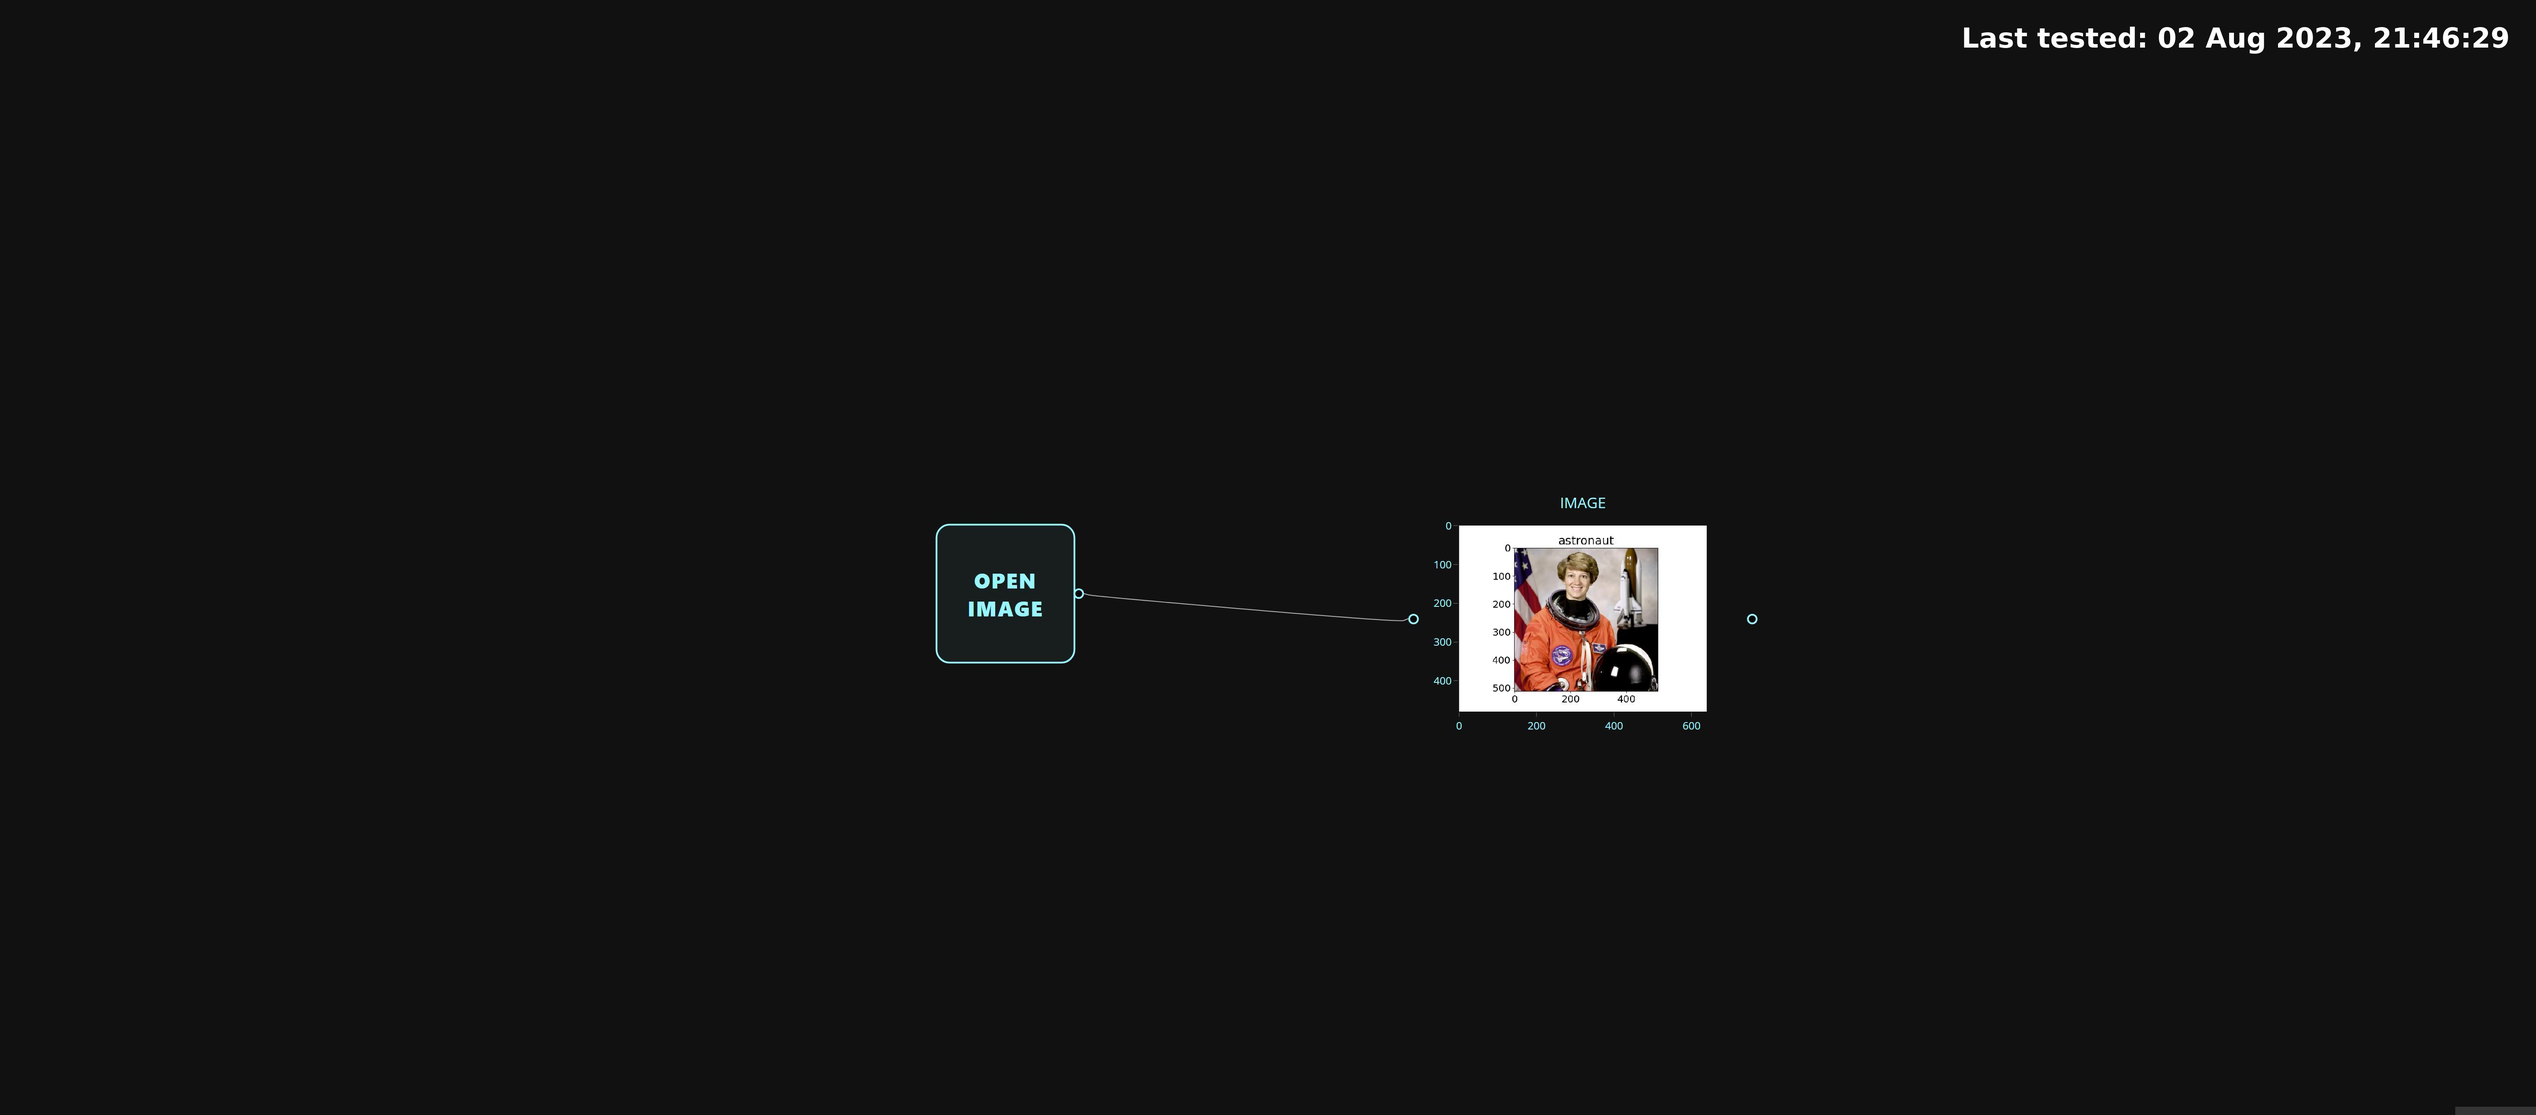
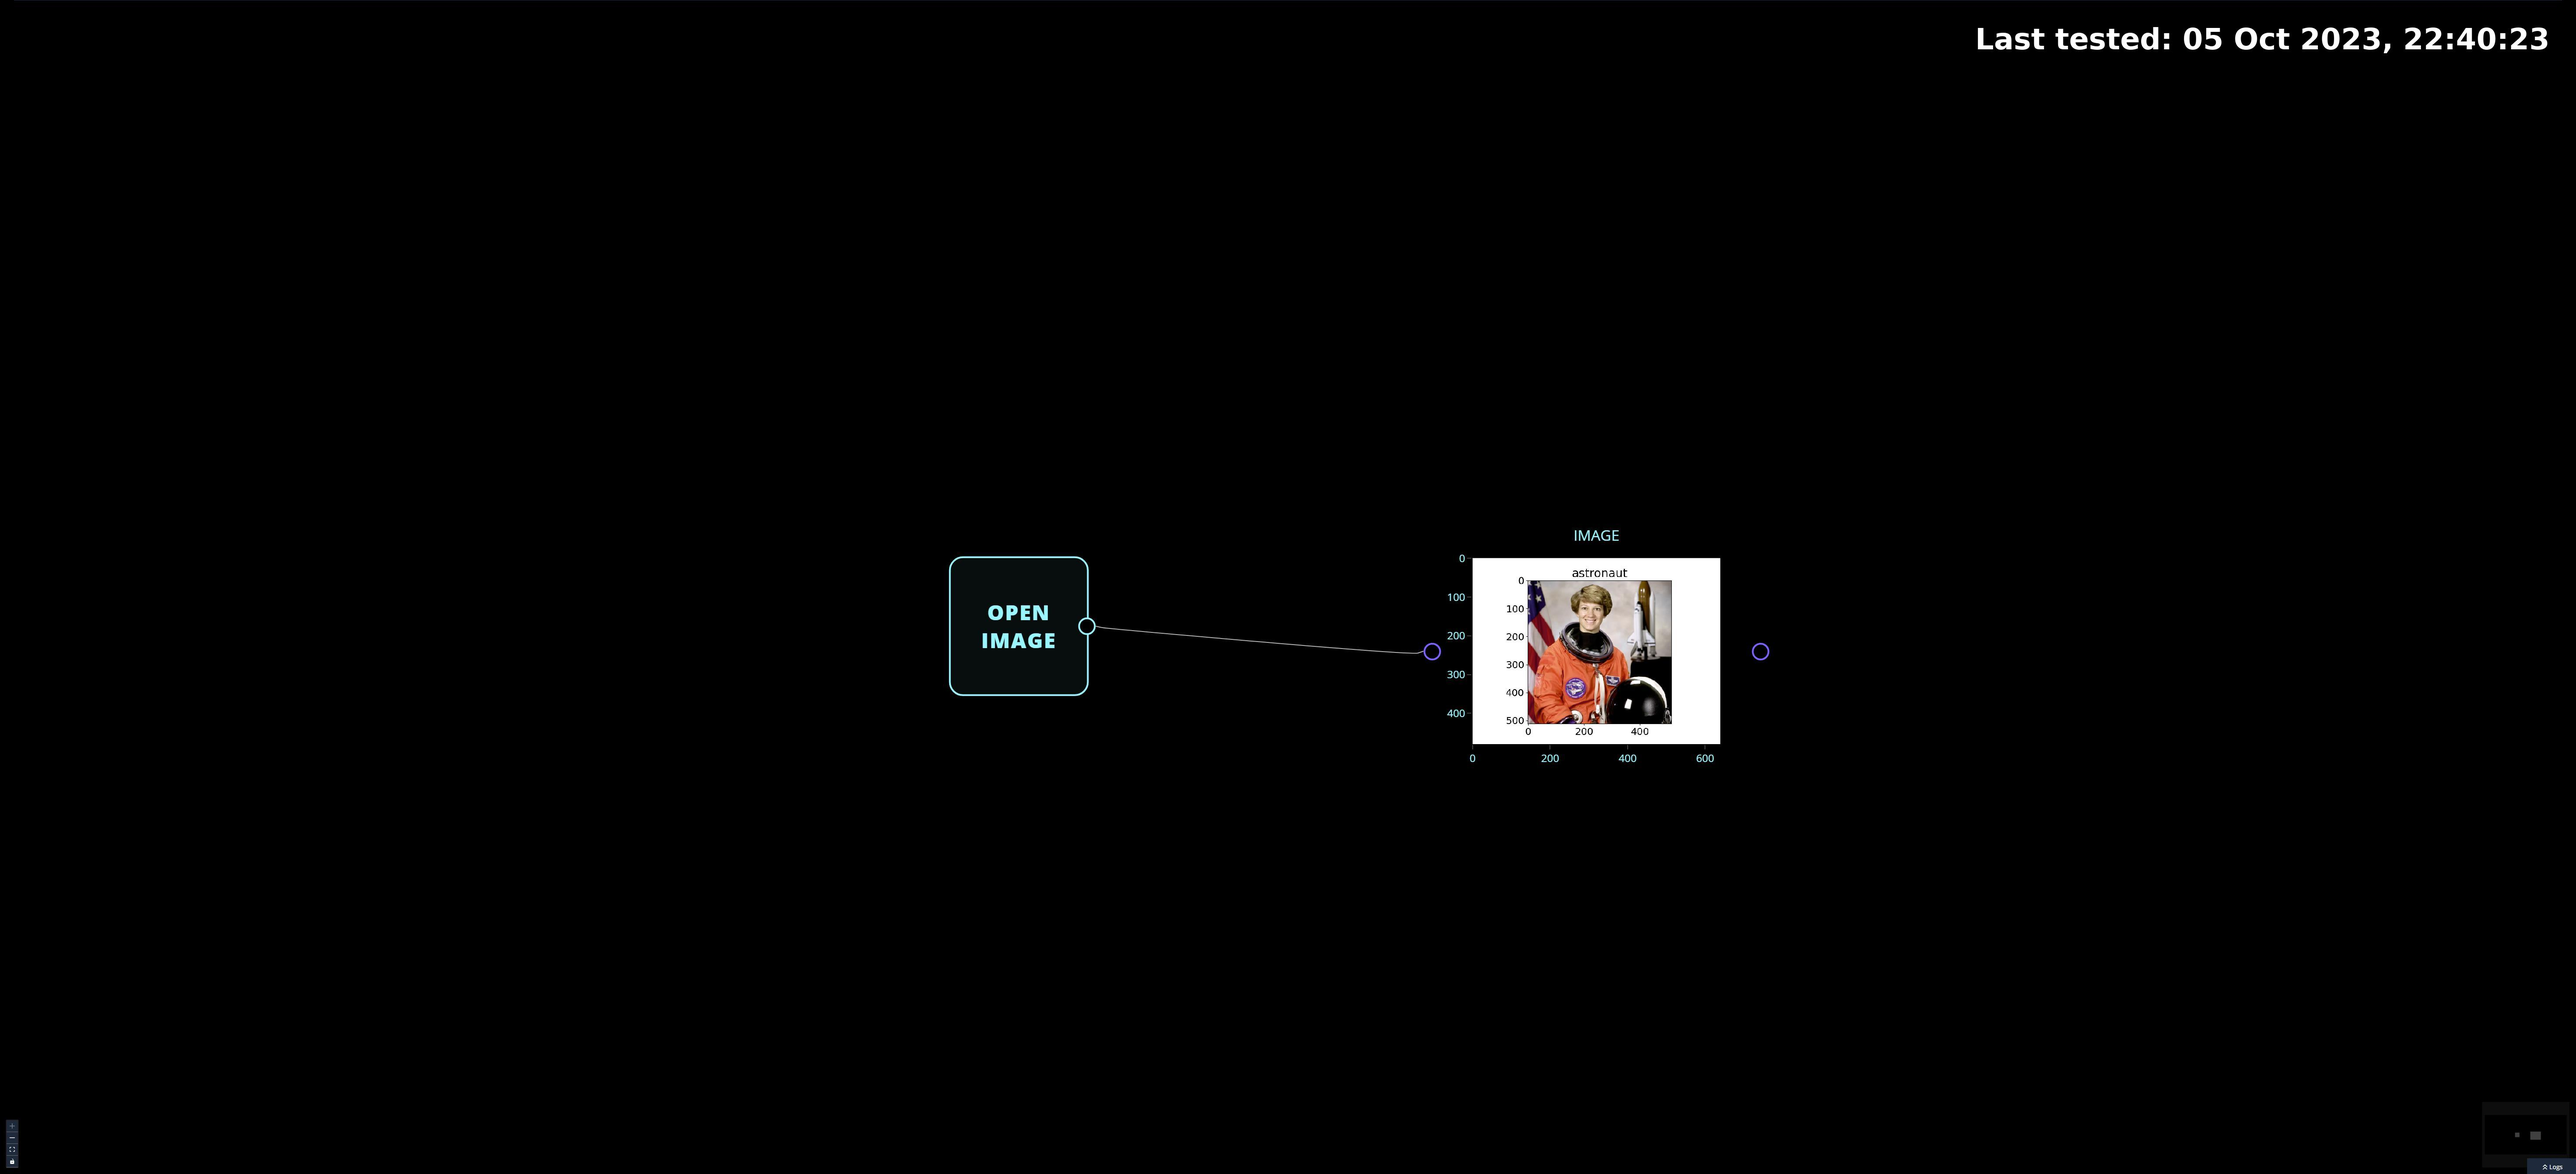
screenshot: EXTRACTORS

diff --git a/docs/nodes/EXTRACTORS/DEBUGGING/PRINT_DATACONTAINER/PRINT_DATACONTAINER.md b/docs/nodes/EXTRACTORS/DEBUGGING/PRINT_DATACONTAINER/PRINT_DATACONTAINER.md
@@ -25,13 +25,19 @@ import PythonSource from '!!raw-loader!./a1-[autogen]/python_code.txt';
 
 import Example1 from './examples/EX1/example.md';
 import App1 from '!!raw-loader!./examples/EX1/app.json';
+import appImg from './examples/EX1/app.jpeg'
+import appImgLight from './examples/EX1/app_light.jpeg'
+import outputImg from './examples/EX1/output.jpeg'
+import outputLight from './examples/EX1/output_light.jpeg'
 
 ### PRINT_DATACONTAINER example
 
-<AppDisplay
+<AppDisplay 
     nodeLabel='PRINT_DATACONTAINER'
-    appImg={''}
-    outputImg={''}
+    appImg={appImg}
+    appLight={appImgLight}
+    outputLight={outputLight}
+    outputImg={outputImg}
     >
     {App1}
 </AppDisplay>

diff --git a/docs/nodes/EXTRACTORS/DEBUGGING/DATACONTAINER_TYPE/DATACONTAINER_TYPE.md b/docs/nodes/EXTRACTORS/DEBUGGING/DATACONTAINER_TYPE/DATACONTAINER_TYPE.md
@@ -25,13 +25,19 @@ import PythonSource from '!!raw-loader!./a1-[autogen]/python_code.txt';
 
 import Example1 from './examples/EX1/example.md';
 import App1 from '!!raw-loader!./examples/EX1/app.json';
+import appImg from './examples/EX1/app.jpeg'
+import appImgLight from './examples/EX1/app_light.jpeg'
+import outputImg from './examples/EX1/output.jpeg'
+import outputLight from './examples/EX1/output_light.jpeg'
 
 ### DATACONTAINER_TYPE example
 
-<AppDisplay
+<AppDisplay 
     nodeLabel='DATACONTAINER_TYPE'
-    appImg={''}
-    outputImg={''}
+    appImg={appImg}
+    appLight={appImgLight}
+    outputLight={outputLight}
+    outputImg={outputImg}
     >
     {App1}
 </AppDisplay>

diff --git a/docs/nodes/EXTRACTORS/DEBUGGING/DC_CONTENT_TYPE/DC_CONTENT_TYPE.md b/docs/nodes/EXTRACTORS/DEBUGGING/DC_CONTENT_TYPE/DC_CONTENT_TYPE.md
@@ -25,13 +25,19 @@ import PythonSource from '!!raw-loader!./a1-[autogen]/python_code.txt';
 
 import Example1 from './examples/EX1/example.md';
 import App1 from '!!raw-loader!./examples/EX1/app.json';
+import appImg from './examples/EX1/app.jpeg'
+import appImgLight from './examples/EX1/app_light.jpeg'
+import outputImg from './examples/EX1/output.jpeg'
+import outputLight from './examples/EX1/output_light.jpeg'
 
 ### DC_CONTENT_TYPE example
 
-<AppDisplay
+<AppDisplay 
     nodeLabel='DC_CONTENT_TYPE'
-    appImg={''}
-    outputImg={''}
+    appImg={appImg}
+    appLight={appImgLight}
+    outputLight={outputLight}
+    outputImg={outputImg}
     >
     {App1}
 </AppDisplay>

diff --git a/docs/nodes/EXTRACTORS/DATAFRAME/EXTRACT_COLUMNS/EXTRACT_COLUMNS.md b/docs/nodes/EXTRACTORS/DATAFRAME/EXTRACT_COLUMNS/EXTRACT_COLUMNS.md
@@ -30,13 +30,17 @@ import PythonSource from '!!raw-loader!./a1-[autogen]/python_code.txt';
 import Example1 from './examples/EX1/example.md';
 import App1 from '!!raw-loader!./examples/EX1/app.json';
 import appImg from './examples/EX1/app.jpeg'
+import appImgLight from './examples/EX1/app_light.jpeg'
 import outputImg from './examples/EX1/output.jpeg'
+import outputLight from './examples/EX1/output_light.jpeg'
 
 ### Extract specific columns from a dataframe
 
 <AppDisplay 
     nodeLabel='EXTRACT_COLUMNS'
     appImg={appImg}
+    appLight={appImgLight}
+    outputLight={outputLight}
     outputImg={outputImg}
     >
     {App1}

diff --git a/docs/nodes/EXTRACTORS/FILE/READ_CSV/READ_CSV.md b/docs/nodes/EXTRACTORS/FILE/READ_CSV/READ_CSV.md
@@ -30,13 +30,17 @@ import PythonSource from '!!raw-loader!./a1-[autogen]/python_code.txt';
 import Example1 from './examples/EX1/example.md';
 import App1 from '!!raw-loader!./examples/EX1/app.json';
 import appImg from './examples/EX1/app.jpeg'
+import appImgLight from './examples/EX1/app_light.jpeg'
 import outputImg from './examples/EX1/output.jpeg'
+import outputLight from './examples/EX1/output_light.jpeg'
 
 ### Load a `.csv` file from disk or a URL
 
 <AppDisplay 
     nodeLabel='READ_CSV'
     appImg={appImg}
+    appLight={appImgLight}
+    outputLight={outputLight}
     outputImg={outputImg}
     >
     {App1}

diff --git a/docs/nodes/EXTRACTORS/FILE/OPEN_PARQUET/OPEN_PARQUET.md b/docs/nodes/EXTRACTORS/FILE/OPEN_PARQUET/OPEN_PARQUET.md
@@ -30,13 +30,17 @@ import PythonSource from '!!raw-loader!./a1-[autogen]/python_code.txt';
 import Example1 from './examples/EX1/example.md';
 import App1 from '!!raw-loader!./examples/EX1/app.json';
 import appImg from './examples/EX1/app.jpeg'
+import appImgLight from './examples/EX1/app_light.jpeg'
 import outputImg from './examples/EX1/output.jpeg'
+import outputLight from './examples/EX1/output_light.jpeg'
 
 ### Load a `.parquet` file from disk
 
 <AppDisplay 
     nodeLabel='OPEN_PARQUET'
     appImg={appImg}
+    appLight={appImgLight}
+    outputLight={outputLight}
     outputImg={outputImg}
     >
     {App1}

diff --git a/docs/nodes/EXTRACTORS/FILE/OPEN_IMAGE/OPEN_IMAGE.md b/docs/nodes/EXTRACTORS/FILE/OPEN_IMAGE/OPEN_IMAGE.md
@@ -30,13 +30,17 @@ import PythonSource from '!!raw-loader!./a1-[autogen]/python_code.txt';
 import Example1 from './examples/EX1/example.md';
 import App1 from '!!raw-loader!./examples/EX1/app.json';
 import appImg from './examples/EX1/app.jpeg'
+import appImgLight from './examples/EX1/app_light.jpeg'
 import outputImg from './examples/EX1/output.jpeg'
+import outputLight from './examples/EX1/output_light.jpeg'
 
 ### Load an image file from disk
 
 <AppDisplay 
     nodeLabel='OPEN_IMAGE'
     appImg={appImg}
+    appLight={appImgLight}
+    outputLight={outputLight}
     outputImg={outputImg}
     >
     {App1}
